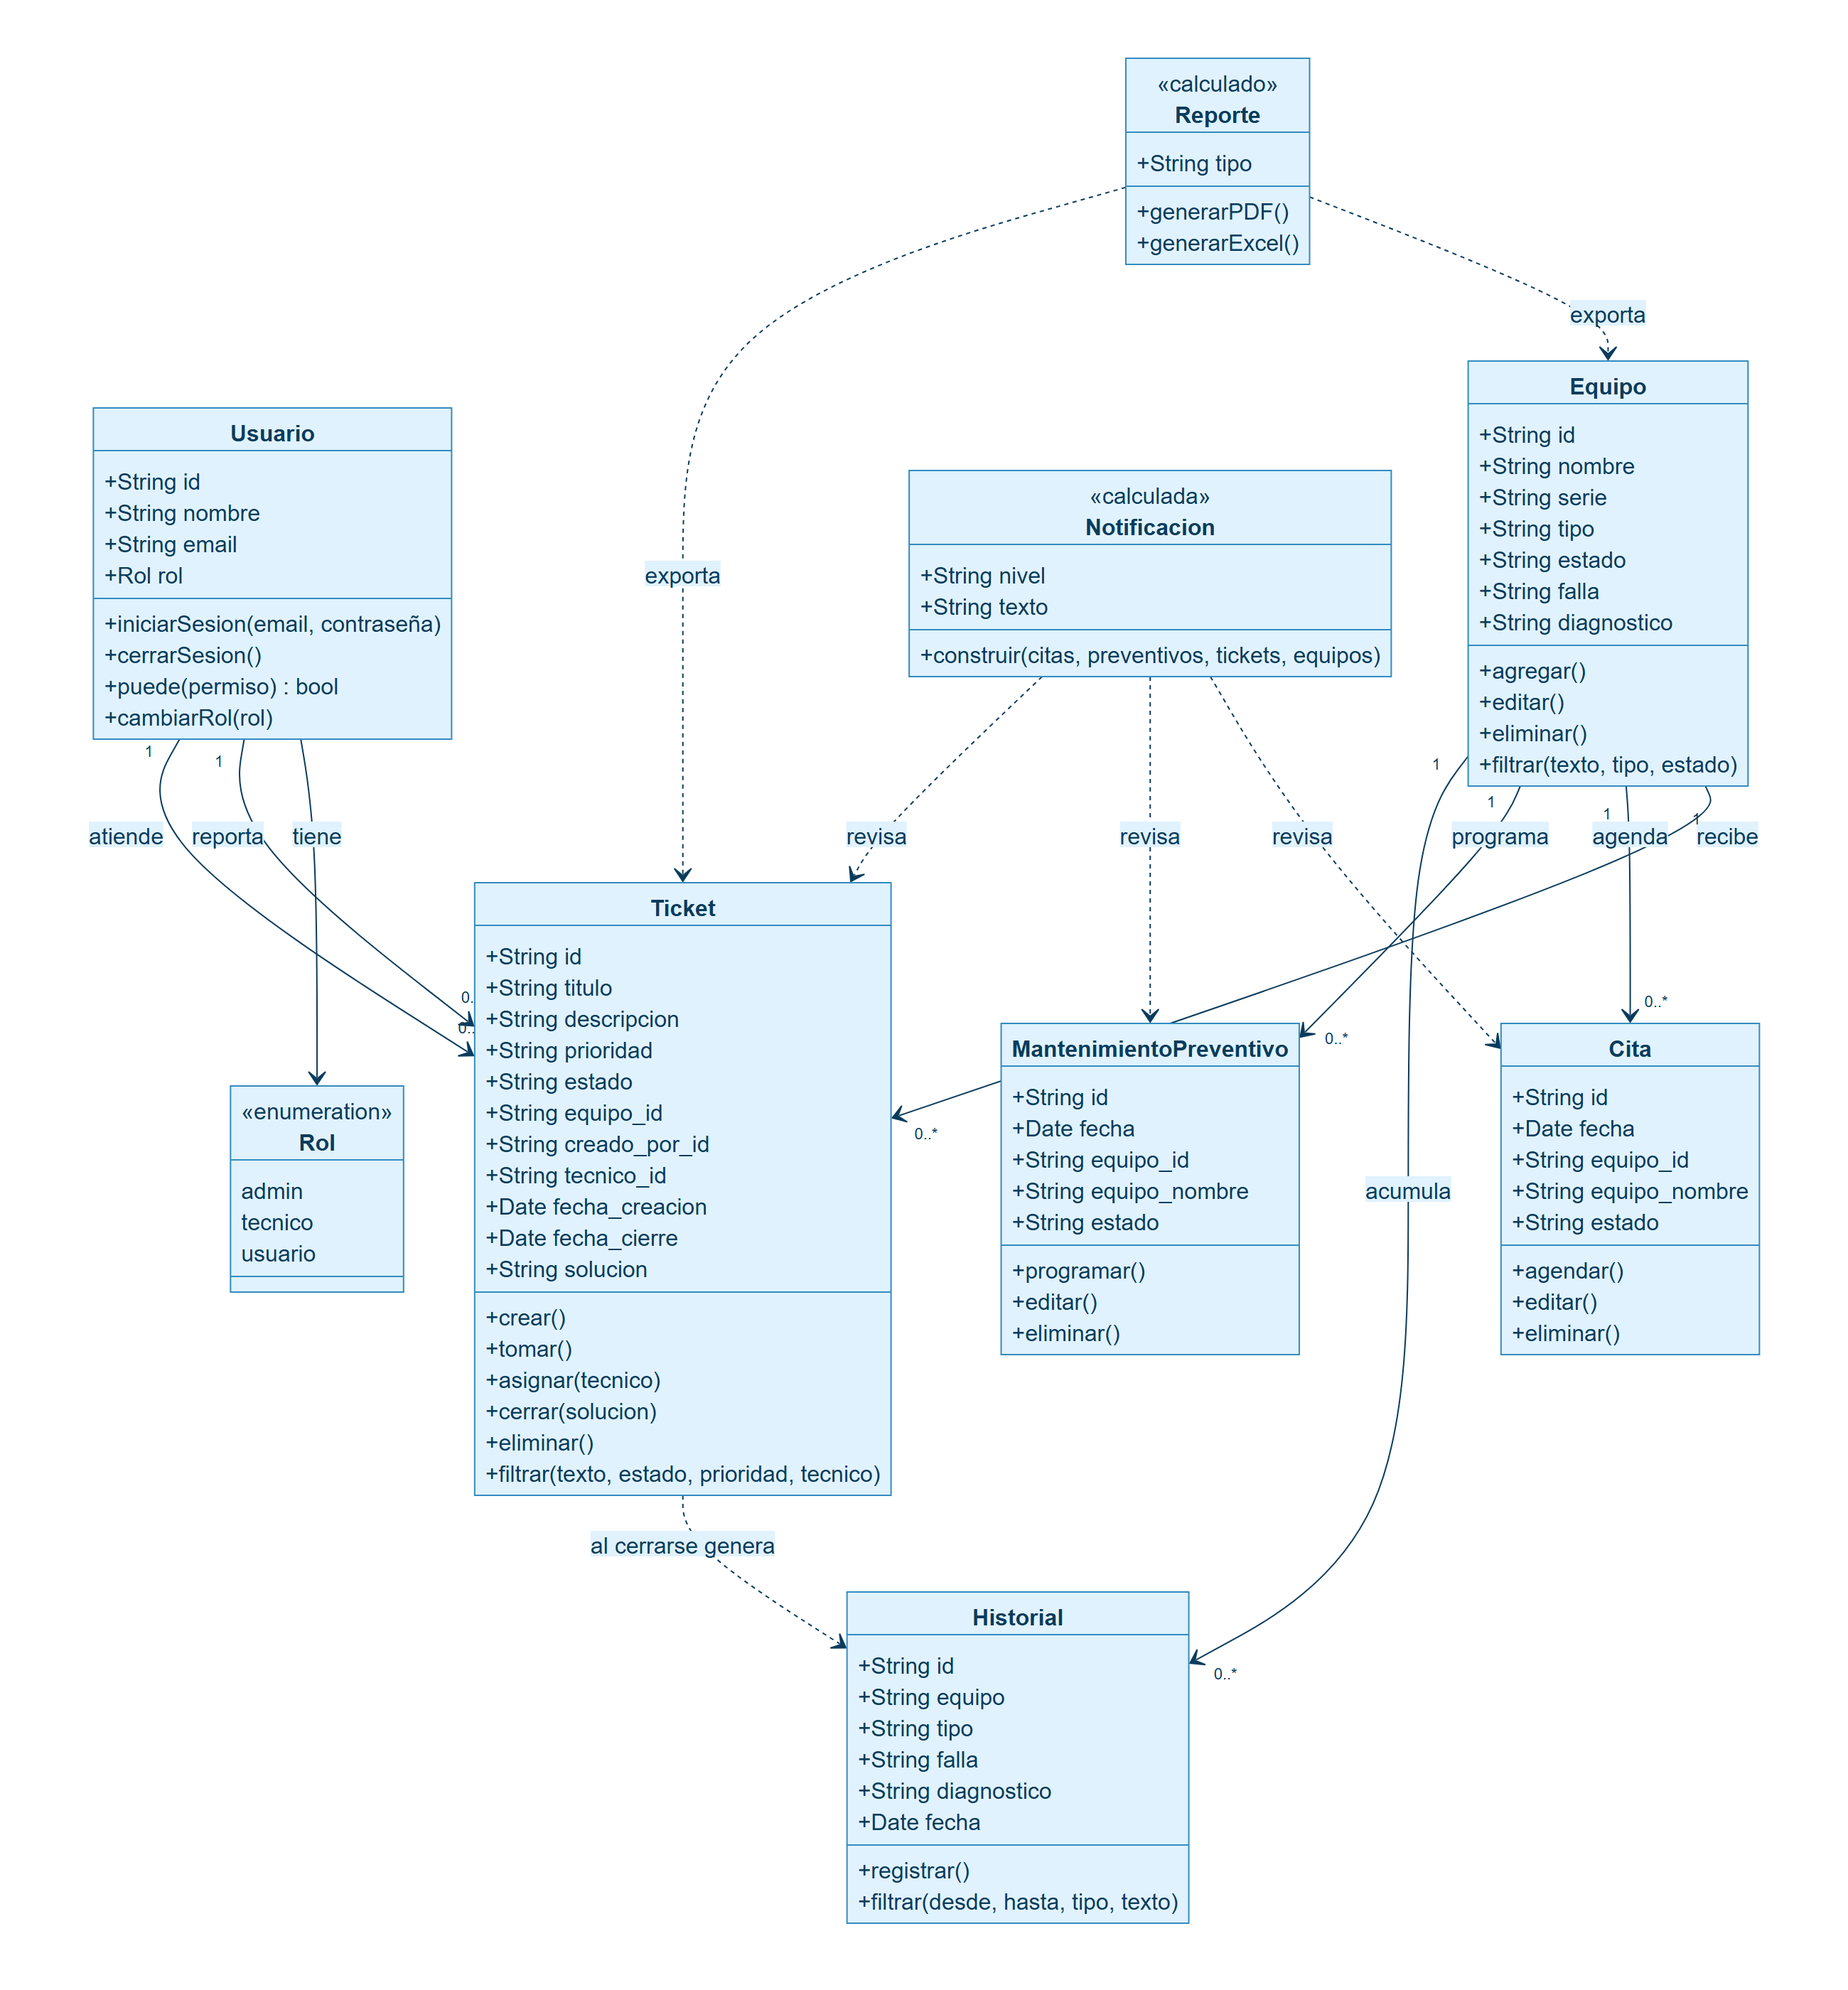
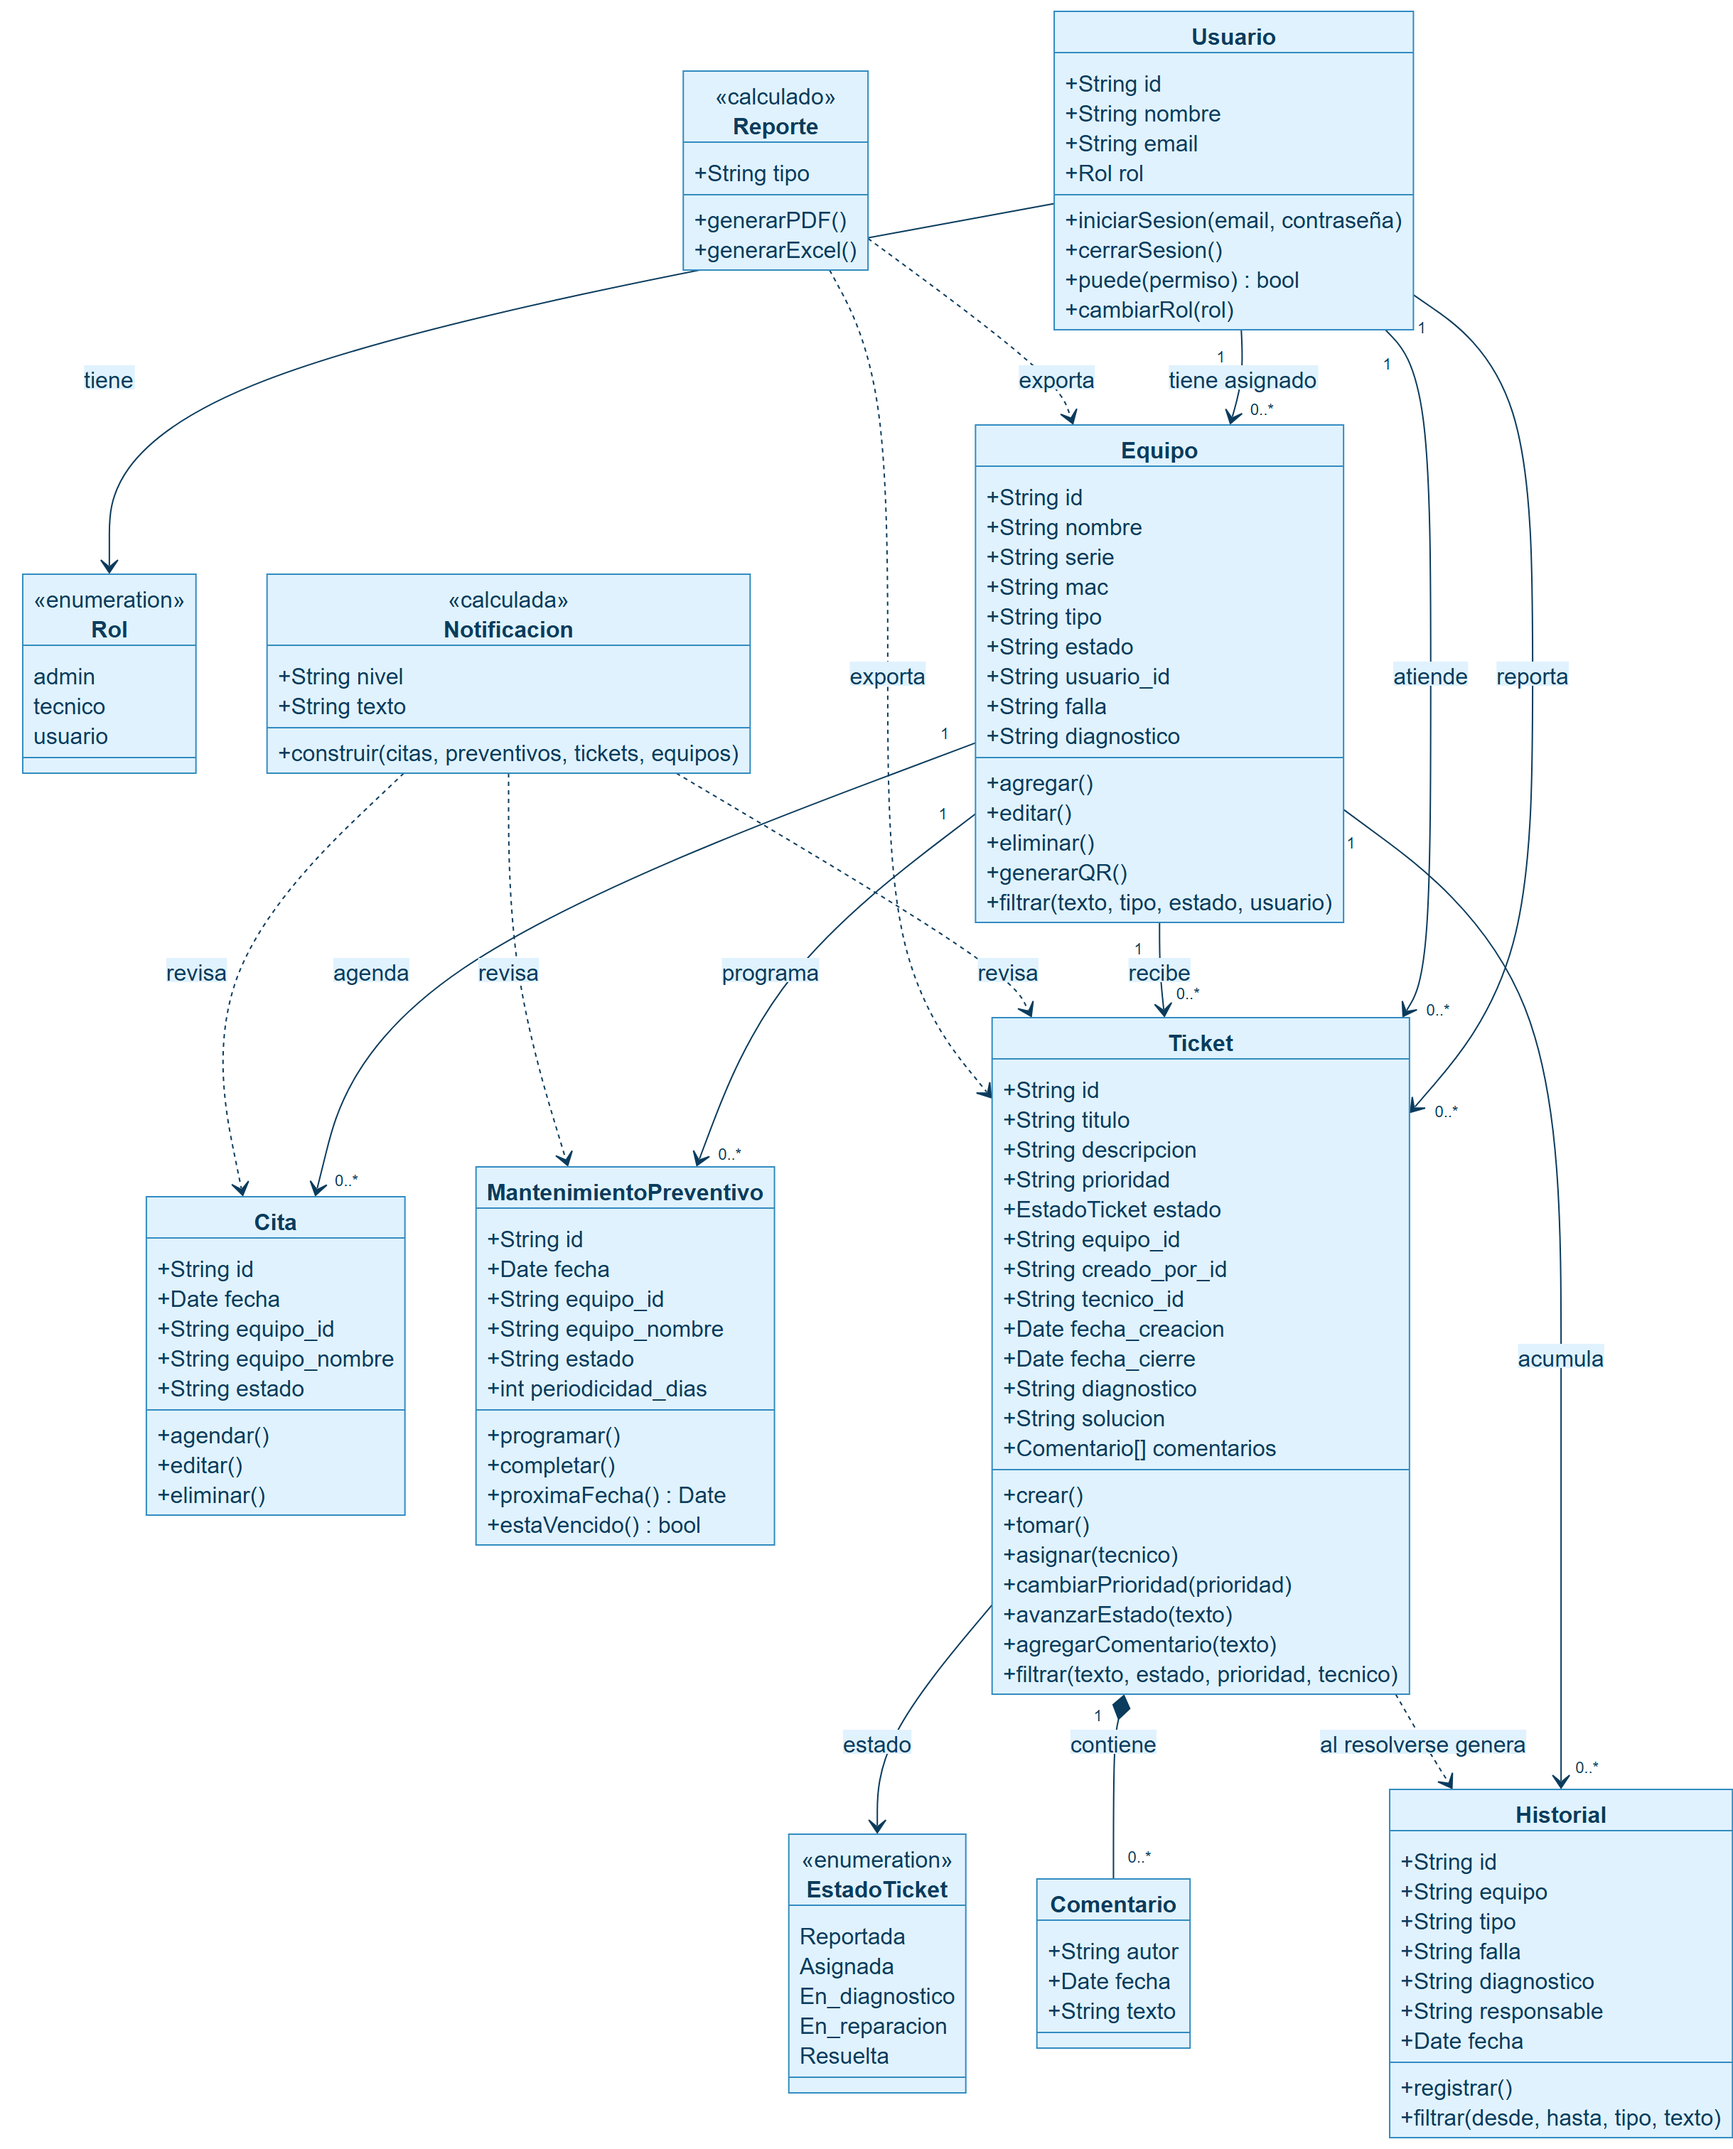
Actualizar diagramas con las funcionalidades finales
El diagrama de clases incluye MAC, usuario asignado, QR, periodicidad,
estados del ticket y comentarios; el flujo de tickets usa los estados
Reportada, Asignada, En diagnóstico, En reparación y Resuelta.

diff --git a/docs/diagramas/diagramas.html b/docs/diagramas/diagramas.html
@@ -59,14 +59,17 @@ classDiagram
         +String id
         +String nombre
         +String serie
+        +String mac
         +String tipo
         +String estado
+        +String usuario_id
         +String falla
         +String diagnostico
         +agregar()
         +editar()
         +eliminar()
-        +filtrar(texto, tipo, estado)
+        +generarQR()
+        +filtrar(texto, tipo, estado, usuario)
     }
 
     class Cita {
@@ -86,9 +89,11 @@ classDiagram
         +String equipo_id
         +String equipo_nombre
         +String estado
+        +int periodicidad_dias
         +programar()
-        +editar()
-        +eliminar()
+        +completar()
+        +proximaFecha() Date
+        +estaVencido() bool
     }
 
     class Historial {
@@ -97,6 +102,7 @@ classDiagram
         +String tipo
         +String falla
         +String diagnostico
+        +String responsable
         +Date fecha
         +registrar()
         +filtrar(desde, hasta, tipo, texto)
@@ -107,19 +113,37 @@ classDiagram
         +String titulo
         +String descripcion
         +String prioridad
-        +String estado
+        +EstadoTicket estado
         +String equipo_id
         +String creado_por_id
         +String tecnico_id
         +Date fecha_creacion
         +Date fecha_cierre
+        +String diagnostico
         +String solucion
+        +Comentario[] comentarios
         +crear()
         +tomar()
         +asignar(tecnico)
-        +cerrar(solucion)
-        +eliminar()
+        +cambiarPrioridad(prioridad)
+        +avanzarEstado(texto)
+        +agregarComentario(texto)
         +filtrar(texto, estado, prioridad, tecnico)
+    }
+
+    class EstadoTicket {
+        &lt;&lt;enumeration&gt;&gt;
+        Reportada
+        Asignada
+        En_diagnostico
+        En_reparacion
+        Resuelta
+    }
+
+    class Comentario {
+        +String autor
+        +Date fecha
+        +String texto
     }
 
     class Notificacion {
@@ -137,13 +161,16 @@ classDiagram
     }
 
     Usuario --> Rol : tiene
+    Usuario "1" --> "0..*" Equipo : tiene asignado
+    Ticket --> EstadoTicket : estado
+    Ticket "1" *-- "0..*" Comentario : contiene
     Usuario "1" --> "0..*" Ticket : reporta
     Usuario "1" --> "0..*" Ticket : atiende
     Equipo "1" --> "0..*" Ticket : recibe
     Equipo "1" --> "0..*" Cita : agenda
     Equipo "1" --> "0..*" MantenimientoPreventivo : programa
     Equipo "1" --> "0..*" Historial : acumula
-    Ticket ..> Historial : al cerrarse genera
+    Ticket ..> Historial : al resolverse genera
     Notificacion ..> Cita : revisa
     Notificacion ..> MantenimientoPreventivo : revisa
     Notificacion ..> Ticket : revisa
@@ -195,23 +222,25 @@ flowchart TD
 <pre class="mermaid">
 flowchart TD
     A([Usuario detecta una falla]) --> B[/Reportar falla:<br/>equipo, título, descripción, prioridad/]
-    B --> C{¿Equipo y título<br/>completos?}
+    B --> C{¿Equipo, título y<br/>descripción completos?}
     C -- No --> B
-    C -- Sí --> D[Guardar ticket con estado Abierto]
+    C -- Sí --> D[Guardar ticket con folio<br/>y estado Reportada]
     D --> E[Notificación en el Dashboard:<br/>ticket sin asignar]
     E --> F{¿Quién lo asigna?}
     F -- Técnico --> G[Técnico toma el ticket]
-    F -- Administrador --> H[Admin asigna a un técnico]
-    G --> I[Estado: En proceso]
+    F -- Administrador --> H[Admin asigna a un técnico<br/>y puede cambiar la prioridad]
+    G --> I[Estado: Asignada]
     H --> I
-    I --> J[Técnico revisa y repara el equipo]
-    J --> K[/Escribe la solución aplicada/]
-    K --> L{¿Solución escrita?}
-    L -- No --> K
-    L -- Sí --> M[Estado: Cerrado<br/>se guarda fecha de cierre]
-    M --> N[Se registra en el Historial de mantenimiento]
-    N --> O[El usuario ve su ticket cerrado]
-    O --> P([Fin])
+    I --> J[Técnico inicia el diagnóstico<br/>Estado: En diagnóstico]
+    J --> K[/Registra el diagnóstico/]
+    K --> L[Estado: En reparación]
+    L --> M[/Registra la solución aplicada/]
+    M --> N{¿Solución escrita?}
+    N -- No --> M
+    N -- Sí --> O[Estado: Resuelta<br/>se guarda fecha de cierre]
+    O --> P[Se registra en el Historial<br/>con el técnico responsable]
+    P --> Q[El usuario ve su ticket resuelto<br/>y los comentarios]
+    Q --> R([Fin])
 </pre>
     </section>
 
